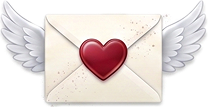
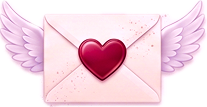
Update: Enlarge scroll cue and refresh icon_3 asset
- Increase scroll cue font-size from 8px to 24px for better visibility
- Update hero/icon_3.png asset
- Scroll hint now more prominent and easier to interact with

diff --git a/index.html b/index.html
@@ -86,7 +86,7 @@
   --bg2: #fafafa;
   --bg3: #f4f0fa;
   --text: #1a1230;
-  --text-mid: #4a4060;
+  --text-mid: #696279;
   --text-dim: #9a90b0;
   --border: #e8e0f0;
   --border-strong: #d0c8e8;
@@ -236,7 +236,7 @@ body { padding-left: 48px; }
   font-family: 'Charm', cursive;
   font-weight: 700;
   font-size: clamp(56px, 10vw, 120px);
-  color: #87658b;
+  color: #ff4b9f;
   letter-spacing: 8px;
   line-height: 1;
   mix-blend-mode: multiply;
@@ -333,7 +333,7 @@ body { padding-left: 48px; }
 
 .scroll-cue {
   font-family: 'Orbit', sans-serif;
-  font-size: 8px;
+  font-size: 24px;
   color: var(--text-dim);
   letter-spacing: 4px;
   animation: cueHint 2s ease-in-out infinite;